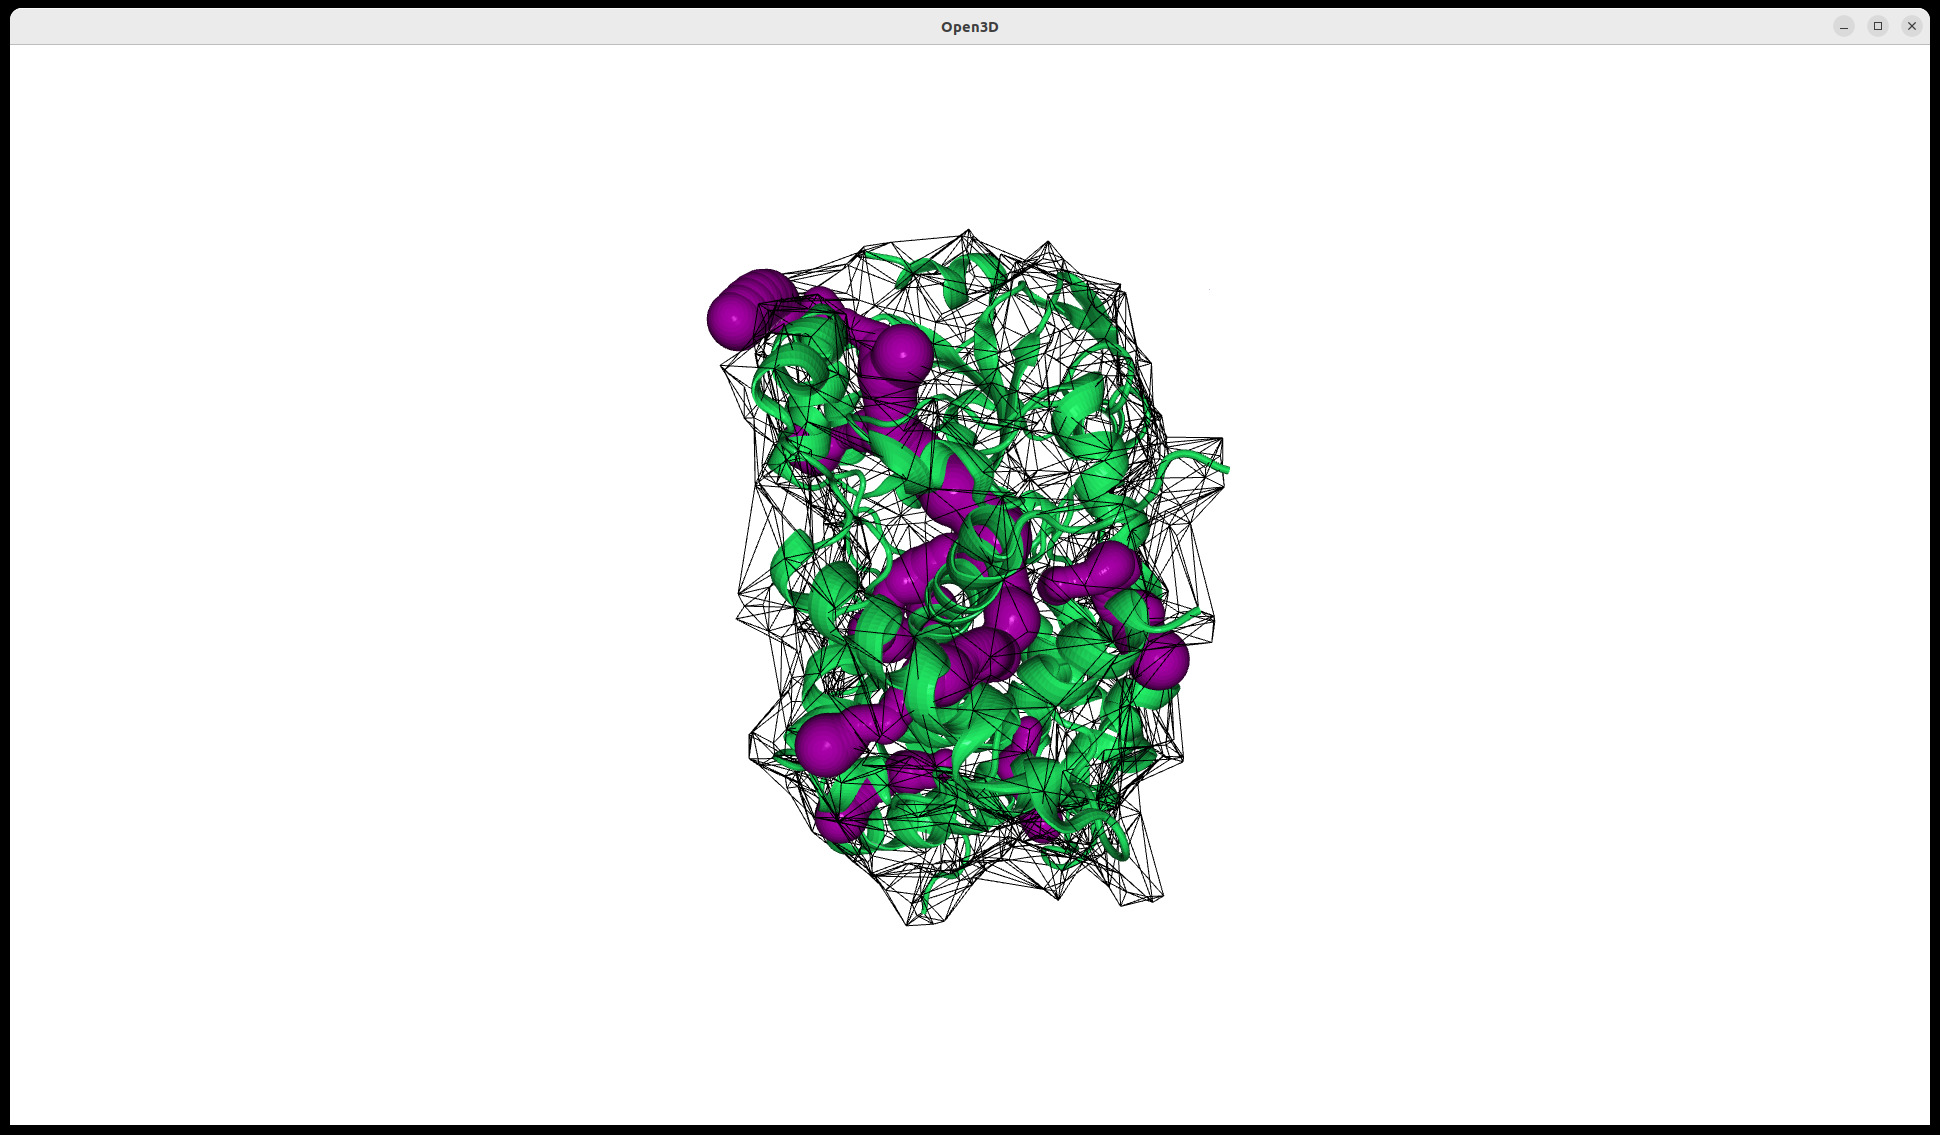
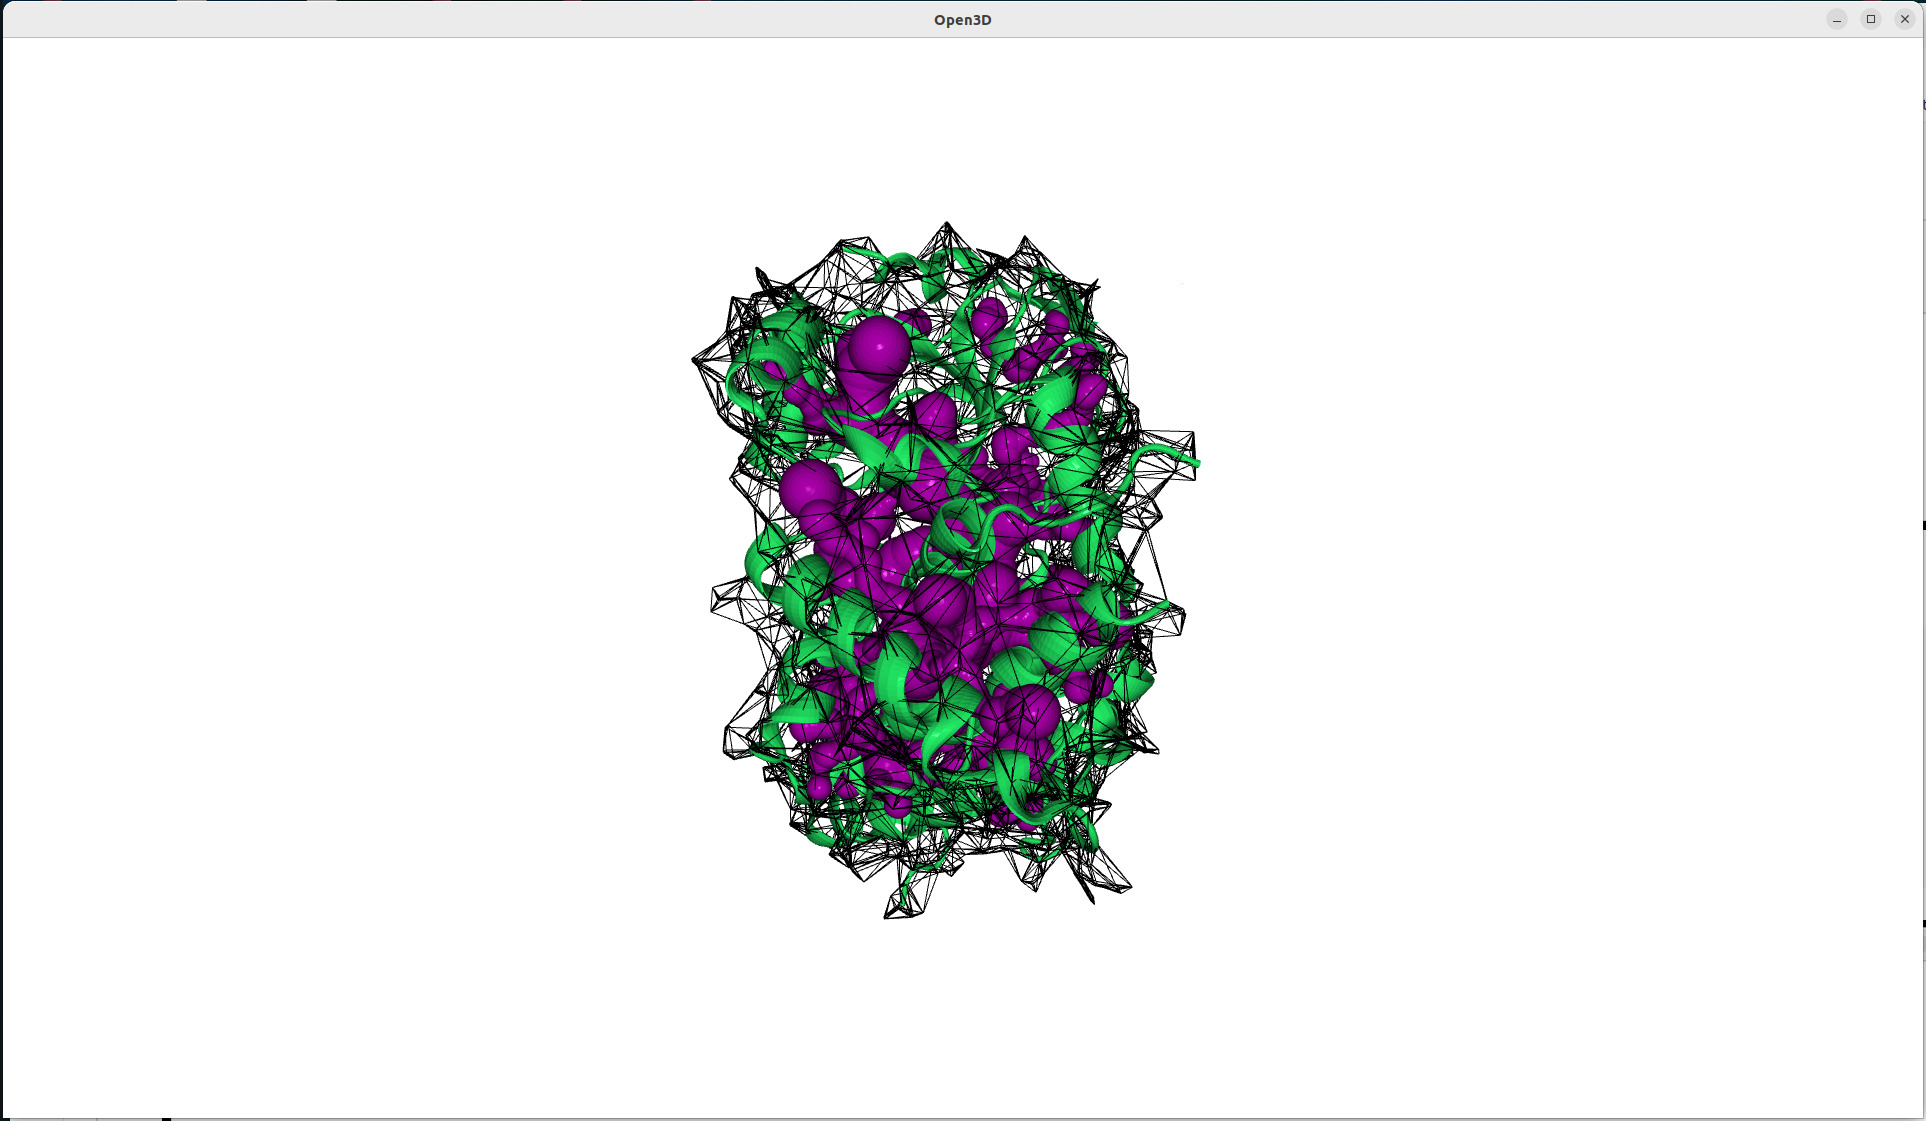
CaviTracer tutorial - singlePDB changes after JB code improvemnts

Changed region(s): [[0.0, 0.0, 1.0, 1.0], [0.3427, 0.1873, 0.6542, 0.8118]]

diff --git a/tutorials/cavitracer_tutorial/singlePDB.rst b/tutorials/cavitracer_tutorial/singlePDB.rst
@@ -14,7 +14,7 @@ a structure :file:`1tqn` using :func:`.parsePDB`:
 .. ipython:: python
    :verbatim:
 
-   atoms = parsePDB('1tqn')
+   p = parsePDB('1tqn')
 
 .. parsed-literal::
 
@@ -52,8 +52,16 @@ option set to True can be saved only as a PQR files.
 
 .. parsed-literal::
 
-   @> Detected 9 channels.
+   @> The atoms supplied to calcChannels contain protein atoms only.
+   @> WARNING structure has no hydrogens and r2=0.90 is below 1.2 A: the space left by the missing H is then wide enough for the probe to pass, and channels will be found through interstices that do not exist in the real protein (their number can rise several-fold). Either add hydrogens, or raise r2 to 1.2 A or more, where protonated and unprotonated structures give the same channels.
+   @> Substituted 3766 atoms with 23638 homogeneous balls of radius 1.52 A in 0.26s.
+   @> Delaunay tessellation of 23638 points constructed in 0.87s.
+   @> Surface and inner simplices filtered in 1.41s.
+   @> 5 surface cavities detected and filtered in 0.32s.
+   @> Channel pathfinding (graph Dijkstra) over 5 cavities completed in 4.12s.
+   @> Detected 57 channels.
    @> Saving results to channels_1tqn_ALL.pdb.
+   @> Channel calculation completed in 7.07s.
 
 .. ipython:: python
    :verbatim:
@@ -62,23 +70,33 @@ option set to True can be saved only as a PQR files.
 
 .. parsed-literal::
 
-   @> Detected 9 channels.
+   @> The atoms supplied to calcChannels contain protein atoms only.
+   @> WARNING structure has no hydrogens and r2=0.90 is below 1.2 A: the space left by the missing H is then wide enough for the probe to pass, and channels will be found through interstices that do not exist in the real protein (their number can rise several-fold). Either add hydrogens, or raise r2 to 1.2 A or more, where protonated and unprotonated structures give the same channels.
+   @> Substituted 3766 atoms with 23638 homogeneous balls of radius 1.52 A in 0.26s.
+   @> Delaunay tessellation of 23638 points constructed in 0.85s.
+   @> Surface and inner simplices filtered in 1.41s.
+   @> 5 surface cavities detected and filtered in 0.29s.
+   @> Channel pathfinding (graph Dijkstra) over 5 cavities completed in 4.11s.
+   @> Detected 57 channels.
    @> Saving multiple results to directory ..
+   @> Channel calculation completed in 7.07s.
 
 Files with separated channels will be saved in separate PQR files in the
 local directory:
 
 .. parsed-literal::
 
-   channels_1tqn_channel0.pqr
-   channels_1tqn_channel1.pqr  
-   channels_1tqn_channel2.pqr  
-   channels_1tqn_channel3.pqr  
-   channels_1tqn_channel4.pqr
-   channels_1tqn_channel5.pqr  
-   channels_1tqn_channel6.pqr  
-   channels_1tqn_channel7.pqr  
-   channels_1tqn_channel8.pqr
+   channels_1tqn_chl0.pqr
+   channels_1tqn_chl1.pqr  
+   channels_1tqn_chl2.pqr  
+   channels_1tqn_chl3.pqr  
+   channels_1tqn_chl4.pqr
+   channels_1tqn_chl5.pqr  
+   channels_1tqn_chl6.pqr  
+   channels_1tqn_chl7.pqr  
+   channels_1tqn_chl8.pqr
+   ..
+   channels_1tqn_chl56.pqr
 
 Each PQR file will contain ``FIL`` atoms that describe the predicted
 channel/tunnel/pore. The ``Beta`` column denotes the radius of
@@ -119,43 +137,85 @@ bottleneck (narrowest point of the channel). To obtain this information use
 .. parsed-literal::
 
    @> Channel ID: 	Volume [Å³] 	Length [Å] 	Bottleneck [Å]
-   @> channel 0: 	871.33 		56.95 		1.15
-   @> channel 1: 	1113.95 	48.53 		1.15
-   @> channel 2: 	1049.53 	52.79 		1.15
-   @> channel 3: 	1342.21 	69.76 		1.15
-   @> channel 4: 	626.63 		36.5 		1.15
-   @> channel 5: 	417.49 		33.76 		1.15
-   @> channel 6: 	104.09 		11.7 		1.16
-   @> channel 7: 	187.24 		16.15 		1.31
-   @> channel 8: 	219.88 		22.43 		1.21
+   @> channel 0: 	60.22 		6.49 		0.95
+   @> channel 1: 	46.16 		8.75 		0.89
+   @> channel 2: 	63.12 		9.89 		0.89
+   @> channel 3: 	40.11 		8.97 		0.95
+   @> channel 4: 	75.41 		11.22 		0.89
+   @> channel 5: 	35.54 		8.98 		0.93
+   @> channel 6: 	76.9 		12.55 		0.89
+   @> channel 7: 	74.84 		16.19 		0.86
+   @> channel 8: 	100.23 		19.31 		0.86
+   @> channel 9: 	193.9 		33.95 		0.91
+   @> channel 10: 	187.54 		34.46 		0.91
+   @> channel 11: 	135.54 		34.2 		0.87
+   @> channel 12: 	214.24 		43.14 		0.84
+   @> channel 13: 	146.5 		36.37 		0.87
+   @> channel 14: 	756.01 		65.84 		0.85
+   @> channel 15: 	312.62 		48.38 		0.85
+   @> channel 16: 	626.95 		63.69 		0.85
+   @> channel 17: 	1099.1 		76.6 		0.85
+   @> channel 18: 	633.91 		64.34 		0.85
+   @> channel 19: 	1174.08 	77.85 		0.85
+   @> channel 20: 	217.18 		45.23 		0.91
+   @> channel 21: 	237.05 		47.31 		0.91
+   @> channel 22: 	1038.56 	76.77 		0.85
+   @> channel 23: 	1037.87 	76.97 		0.85
+   @> channel 24: 	551.39 		62.29 		0.85
+   @> channel 25: 	287.77 		52.63 		0.91
+   @> channel 26: 	249.46 		48.77 		0.79
+   @> channel 27: 	273.57 		52.29 		0.91
+   @> channel 28: 	521.44 		61.41 		0.84
+   @> channel 29: 	387.2 		57.1 		0.85
+   @> channel 30: 	745.97 		70.94 		0.85
+   @> channel 31: 	335.67 		55.67 		0.85
+   @> channel 32: 	402.03 		59.42 		0.85
+   @> channel 33: 	463.98 		63.81 		0.85
+   @> channel 34: 	473.98 		65.06 		0.85
+   @> channel 35: 	1012.12 	81.79 		0.85
+   @> channel 36: 	747.34 		72.88 		0.85
+   @> channel 37: 	504.33 		68.06 		0.85
+   @> channel 38: 	1030.95 	84.17 		0.85
+   @> channel 39: 	457.82 		65.23 		0.85
+   @> channel 40: 	476.47 		65.18 		0.77
+   @> channel 41: 	489.71 		67.2 		0.77
+   @> channel 42: 	541.12 		71.05 		0.85
+   @> channel 43: 	1000.67 	85.13 		0.85
+   @> channel 44: 	453.94 		69.05 		0.85
+   @> channel 45: 	767.08 		78.21 		0.85
+   @> channel 46: 	424.95 		65.58 		0.78
+   @> channel 47: 	1063.79 	86.23 		0.59
+   @> channel 48: 	1003.87 	87.76 		0.67
+   @> channel 49: 	1057.96 	86.47 		0.59
+   @> channel 50: 	376.7 		70.69 		0.85
+   @> channel 51: 	372.05 		70.8 		0.85
+   @> channel 52: 	1011.7 		90.14 		0.66
+   @> channel 53: 	334.86 		68.83 		0.85
+   @> channel 54: 	362.79 		70.69 		0.84
+   @> channel 55: 	1022.15 	92.38 		0.66
+   @> channel 56: 	1013.42 	93.48 		0.66
 
-   ([56.945124331611794,
-     48.534803029525044,
-     52.793238139469054,
-     69.76196724198059,
-     36.49901131352283,
-     33.764800308315536,
-     11.699064048139602,
-     16.154296930458283,
-     22.42697614131529],
-    [1.1529255252365347,
-     1.1529255252365347,
-     1.1529255252365347,
-     1.1529255252365347,
-     1.1529255252365347,
-     1.1529255252365347,
-     1.161672543421736,
-     1.3122081535867374,
-     1.2063476851586834],
-    [871.3272015249249,
-     1113.9480417205011,
-     1049.5320771190782,
-     1342.2090130173915,
-     626.6339281791867,
-     417.4940800159774,
-     104.08765471789833,
-     187.24450715204378,
-     219.87584623622723])
+   ([6.492057612806176,
+     8.747214787071009,
+     9.88835768477351,
+     ..
+     70.69375950960386,
+     92.37669761808526,
+     93.47861401991176],
+    [0.9465177739700246,
+     0.8945378037566032,
+     0.8860264274901208,
+     ..
+     0.8378961392220603,
+     0.6624844558162226,
+     0.6624844558162226],
+    [60.221979215355034,
+     46.16486691455868,
+     63.11707773997961,
+     ..
+     362.7912307310119,
+     1022.1498363831043,
+     1013.4237285330822])
 
 Additionally, to obtain information on which residues are involved in the
 formation of the predicted channels, use :func:`.getChannelResidueNames` function.
@@ -170,26 +230,27 @@ residues, as shown below.
 
 .. parsed-literal::
 
-   @> 4021 atoms and 1 coordinate set(s) were parsed in 0.06s.
-   @> 3961 atoms and 1 coordinate set(s) were parsed in 0.04s.
-   @> 4011 atoms and 1 coordinate set(s) were parsed in 0.04s.
-   @> 4041 atoms and 1 coordinate set(s) were parsed in 0.04s.
-   @> 3911 atoms and 1 coordinate set(s) were parsed in 0.04s.
-   @> 3911 atoms and 1 coordinate set(s) were parsed in 0.04s.
-   @> 3841 atoms and 1 coordinate set(s) were parsed in 0.04s.
-   @> 3866 atoms and 1 coordinate set(s) were parsed in 0.04s.
-   @> 3876 atoms and 1 coordinate set(s) were parsed in 0.04s.
+   @> 3831 atoms and 1 coordinate set(s) were parsed in 0.04s.
+   @> 3861 atoms and 1 coordinate set(s) were parsed in 0.04s.
+   @> 3861 atoms and 1 coordinate set(s) were parsed in 0.04s.
+   @> 3856 atoms and 1 coordinate set(s) were parsed in 0.04s.
+   ..
+   @> 4311 atoms and 1 coordinate set(s) were parsed in 0.04s.
+   @> 4336 atoms and 1 coordinate set(s) were parsed in 0.04s.
+   @> 4486 atoms and 1 coordinate set(s) were parsed in 0.04s.
+   @> 4496 atoms and 1 coordinate set(s) were parsed in 0.04s.
+   @> Channel residues were saved to: 1tqn_data_Residues_All_channels.txt
 
+   ['channel0: PHE33, ILE38, PRO39, GLY40, PRO41, PRO43, ASN49, GLY73, PHE74, TYR75',
+    'channel1: LEU172, SER315, MET318, TYR319, ALA322, THR323, PRO467, THR471, ILE473, VAL489, LEU491',
+    'channel2: LEU172, SER315, MET318, TYR319, GLU470, THR471, GLN472, PRO488, VAL489, VAL490, LEU491',
+    'channel3: MET89, THR92, VAL93, GLU97, PHE102, ILE383, ASN384',
+    ..
+    'channel53: MET145, ILE148, ILE149, ALA150, TYR152, GLY153, VAL155, LEU156, VAL157, ASN159, LEU160, VAL170, LEU172, VAL175, PHE176, TYR179, ASP182, VAL183, SER186, THR187, ILE193, ASP194, SER195, LEU196, ALA322, PHE447, MET450, ASN451, LEU454, ALA455, ARG458, VAL459, PHE463, PHE465, LYS466, PRO467, LEU491, LYS492, VAL493',
+    'channel54: MET145, ILE148, ILE149, ALA150, TYR152, GLY153, VAL155, LEU156, VAL157, ASN159, LEU160, VAL170, LEU172, ASP174, VAL175, PHE176, ALA178, TYR179, ASP182, VAL183, SER186, THR187, LEU196, ALA322, PHE447, MET450, ASN451, LEU454, ALA455, ARG458, VAL459, PHE463, PHE465, LYS466, PRO467, LEU491, LYS492, VAL493',
+    'channel55: PHE57, CYS58, ASP61, MET62, HIS65, TRP72, THR85, LEU156, LEU160, VAL170, LEU172, VAL175, PHE176, TYR179, SER180, ILE184, ALA305, GLY306, THR309, THR310, SER311, LEU314, ALA322, ALA370, MET371, ARG372, PRO397, SER398, TYR399, ALA400, LEU401, ASP404, TYR407, CYS442, GLY444, PHE447, ALA448, ASN451, PHE465, LYS466, PRO467, LEU491, LYS492, VAL493',
+    'channel56: PHE57, CYS58, ASP61, MET62, HIS65, TRP72, THR85, LEU156, LEU160, VAL170, LEU172, VAL175, PHE176, TYR179, SER180, ILE184, ALA305, GLY306, THR309, THR310, SER311, LEU314, ALA322, ALA370, MET371, ARG372, PRO397, SER398, TYR399, ALA400, LEU401, ASP404, TYR407, ILE431, CYS442, GLY444, PHE447, ALA448, ASN451, PHE465, LYS466, PRO467, LEU491, LYS492, VAL493']
 
-   ['channel0: LYS173, SER180, VAL183, ILE184, ARG212, PHE302, ALA305, GLY306, THR309, THR310, SER312, SER315, PHE316, TYR319, GLU320, PHE367, ILE369, ALA370, CYS442, GLY444, PHE447, ASN451, LEU475, LEU482, LEU483, GLN484, PRO485, VAL489',
-    'channel1: ARG106, SER180, VAL183, ILE184, PHE215, THR224, PHE302, ALA305, GLY306, THR310, CYS442, GLY444, PHE447, ASN451',
-    'channel2: ILE50, LEU51, TYR53, HIS54, PHE57, SER180, VAL183, ILE184, PHE215, LEU216, LEU221, THR224, PHE302, ALA305, GLY306, THR310, CYS442, GLY444, PHE447, ASN451',
-    'channel3: PHE46, ASP76, GLY77, GLN78, GLN79, ARG106, SER180, VAL183, ILE184, PHE215, THR224, VAL225, PHE226, PRO227, PHE228, PHE302, ALA305, GLY306, THR310, CYS442, GLY444, PHE447, ASN451',
-    'channel4: SER180, VAL183, ILE184, ARG212, PHE302, ALA305, GLY306, GLU308, THR309, THR310, SER312, ILE369, ALA370, CYS442, GLY444, PHE447, ASN451, LEU482, GLN484',
-    'channel5: SER180, VAL183, ILE184, THR187, SER188, PHE203, PHE248, SER252, VAL253, ARG255, MET256, PHE271, SER299, PHE302, ILE303, GLY306, THR310, PHE447, ASN451',
-    'channel6: ILE149, ALA150, GLY153, ASP154, TYR179, PRO344, PRO345, MET450, ASN451, LEU454, ALA455, ARG458',
-    'channel7: TYR152, LEU156, ASN159, LEU160, GLU163, VAL175, ALA178, TYR179, ASP182, LEU196',
-    'channel8: LEU132, PRO135, THR136, LYS141, LEU274, MET275, SER278, GLN279, LEU290, LEU295']
 
 .. ipython:: python
    :verbatim:
@@ -198,26 +259,26 @@ residues, as shown below.
 
 .. parsed-literal::
 
-   @> 4021 atoms and 1 coordinate set(s) were parsed in 0.04s.
-   @> 3961 atoms and 1 coordinate set(s) were parsed in 0.04s.
-   @> 4011 atoms and 1 coordinate set(s) were parsed in 0.04s.
-   @> 4041 atoms and 1 coordinate set(s) were parsed in 0.04s.
-   @> 3911 atoms and 1 coordinate set(s) were parsed in 0.04s.
-   @> 3911 atoms and 1 coordinate set(s) were parsed in 0.04s.
-   @> 3841 atoms and 1 coordinate set(s) were parsed in 0.04s.
-   @> 3866 atoms and 1 coordinate set(s) were parsed in 0.04s.
-   @> 3876 atoms and 1 coordinate set(s) were parsed in 0.04s.
+   @> 3831 atoms and 1 coordinate set(s) were parsed in 0.04s.
+   @> 3861 atoms and 1 coordinate set(s) were parsed in 0.04s.
+   @> 3861 atoms and 1 coordinate set(s) were parsed in 0.04s.
+   @> 3856 atoms and 1 coordinate set(s) were parsed in 0.04s.
+   ..
+   @> 4311 atoms and 1 coordinate set(s) were parsed in 0.04s.
+   @> 4336 atoms and 1 coordinate set(s) were parsed in 0.04s.
+   @> 4486 atoms and 1 coordinate set(s) were parsed in 0.04s.
+   @> 4496 atoms and 1 coordinate set(s) were parsed in 0.04s.
+   @> Channel residues were saved to: 1tqn_data_Residues_All_channels.txt
 
-
-   ['channel0: S180, S312, F316, Y319, E320, F367, N451, L475, L483, Q484',
-    'channel1: S180, N451',
-    'channel2: I50, Y53, S180, L216, L221, N451',
-    'channel3: F46, S180, N451',
-    'channel4: S180, N451, Q484',
-    'channel5: S180, F203, S252, R255, M256, N451',
-    'channel6: I149, Y179, N451, L454',
-    'channel7: N159, V175, L196',
-    'channel8: L132, T136, M275, S278, Q279, L290, L295']
+   ['channel0: P41, N49, G73, F74, Y75',
+    'channel1: L172, Y319, T323, P467, T471, I473, V489, L491',
+    'channel2: L172, Y319, T471, V489, L491',
+    'channel3: M89, T92, V93, E97, F102, I383, N384',
+     ..
+    'channel53: M145, I148, I149, Y152, G153, V155, L156, V157, N159, L160, V170, L172, Y179, D182, V183, T187, I193, D194, A322, F447, N451, L454, A455, R458, V459, F465, K466, P467, L491, K492, V493',
+    'channel54: M145, I148, I149, Y152, G153, L156, V157, L160, V170, L172, D174, V175, A178, Y179, D182, V183, T187, L196, A322, F447, N451, L454, A455, R458, V459, F465, K466, P467, L491, K492, V493',
+    'channel55: F57, D61, H65, W72, L156, V170, L172, V175, F176, Y179, S180, T310, L314, A322, M371, R372, P397, A400, L401, D404, Y407, N451, F465, K466, P467, L491, K492, V493',
+    'channel56: F57, D61, H65, W72, T85, L156, V170, L172, V175, F176, Y179, S180, T310, L314, A322, M371, R372, P397, A400, L401, D404, Y407, I431, N451, F465, K466, P467, L491, K492, V493']
 
 
 Visualization of channels within ProDy
@@ -298,7 +359,7 @@ display single channels (channel #1, channel #2), two channels at once (channel
 .. ipython:: python
    :verbatim:
 
-   showChannels(channels[1], model)
+   showChannels(channels[40], model)
 
 .. figure:: images/cavitracer_figure6.jpg
    :scale: 50 %
@@ -306,7 +367,7 @@ display single channels (channel #1, channel #2), two channels at once (channel
 .. ipython:: python
    :verbatim:
 
-   showChannels(channels[2], model)
+   showChannels(channels[15], model)
 
 .. figure:: images/cavitracer_figure7.jpg
    :scale: 50 %
@@ -314,7 +375,7 @@ display single channels (channel #1, channel #2), two channels at once (channel
 .. ipython:: python
    :verbatim:
 
-   selected_channels = [channels[1], channels[8]]
+   selected_channels = [channels[9], channels[40]]
    showChannels(selected_channels, model)
 
 .. figure:: images/cavitracer_figure8.jpg
@@ -323,7 +384,7 @@ display single channels (channel #1, channel #2), two channels at once (channel
 .. ipython:: python
    :verbatim:
 
-   selected_channels = channels[1:4]
+   selected_channels = channels[10:20]
    showChannels(selected_channels, model)
 
 Once we select which channels are of interest, we can obtain information
@@ -332,17 +393,24 @@ about their parameters.
 .. ipython:: python
    :verbatim:
 
-   selected_channels = channels[1:4]
+   selected_channels = channels[10:20]
    lengths, bottlenecks, volumes = getChannelParameters(selected_channels)
    selected_channels_atoms = getChannelAtoms(selected_channels)
 
 .. parsed-literal::
 
    @> Channel ID: 	Volume [Å³] 	Length [Å] 	Bottleneck [Å]
-   @> channel 0: 	1113.95 	48.53 		1.15
-   @> channel 1: 	1049.53 	52.79 		1.15
-   @> channel 2: 	1342.21 	69.76 		1.15
-   @> 715 atoms and 1 coordinate set(s) were parsed in 0.01s.
+   @> channel 0: 	187.54 		34.46 		0.91
+   @> channel 1: 	135.54 		34.2 		0.87
+   @> channel 2: 	214.24 		43.14 		0.84
+   @> channel 3: 	146.5 		36.37 		0.87
+   @> channel 4: 	756.01 		65.84 		0.85
+   @> channel 5: 	312.62 		48.38 		0.85
+   @> channel 6: 	626.95 		63.69 		0.85
+   @> channel 7: 	1099.1 		76.6 		0.85
+   @> channel 8: 	633.91 		64.34 		0.85
+   @> channel 9: 	1174.08 	77.85 		0.85
+   @> 4330 atoms and 1 coordinate set(s) were parsed in 0.10s.
 
 
 Predefined starting point for channel prediction
